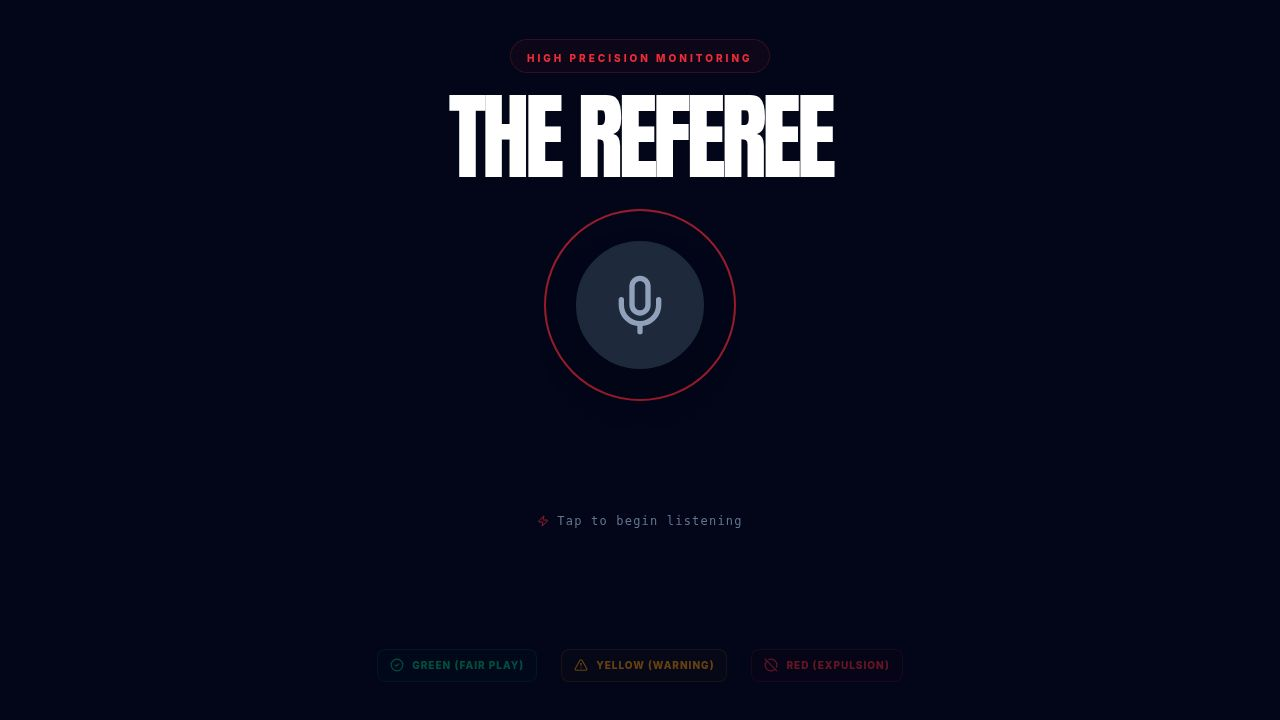
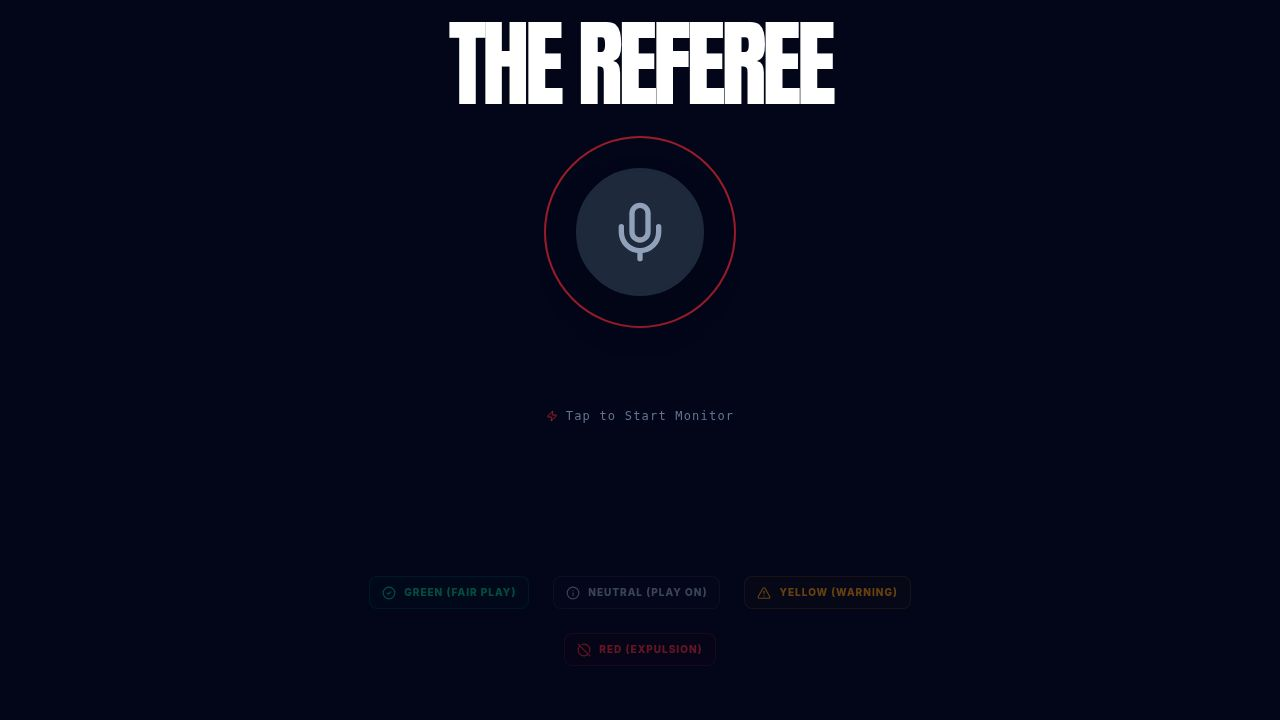
Add a neutral card and expand detection for all forms of bigotry
Introduces a "Neutral Card" for ordinary conversation and expands the Red Card triggers to encompass a wider range of discriminatory language, including homophobia, transphobia, sexism, xenophobia, ableism, antisemitism, and islamophobia. The "I'm Finished" button logic is also corrected to ensure a card is always issued upon submission.

Replit-Commit-Author: Agent
Replit-Commit-Session-Id: 588df0f7-1fe9-41b3-a088-bbca1131cdec
Replit-Commit-Checkpoint-Type: full_checkpoint
Replit-Commit-Event-Id: f1c42167-c97c-4608-b4d7-1ae65f9f6262
Replit-Commit-Screenshot-Url: https://storage.googleapis.com/screenshot-production-us-central1/e18f1a6d-9cce-4801-b7d0-e041ac82768c/588df0f7-1fe9-41b3-a088-bbca1131cdec/yTXIyU8
Replit-Helium-Checkpoint-Created: true

diff --git a/client/src/pages/home.tsx b/client/src/pages/home.tsx
@@ -1,24 +1,28 @@
 import { useState, useEffect, useRef } from "react";
 import { motion, AnimatePresence } from "framer-motion";
-import { Mic, AlertTriangle, RefreshCw, Flag, ShieldAlert, Zap, Waves, CheckCircle2, CircleOff, PowerOff, StopCircle } from "lucide-react";
+import { Mic, AlertTriangle, RefreshCw, Flag, ShieldAlert, Zap, Waves, CheckCircle2, CircleOff, PowerOff, StopCircle, Info } from "lucide-react";
 import { useToast } from "@/hooks/use-toast";
 
 const ANALYSIS_MAP = {
   RED: [
     "racist", "bigot", "hate", "slur", "nazi", "supremacy", 
-    "discrimination", "segregation", "prejudice", "intolerance"
+    "discrimination", "segregation", "prejudice", "intolerance",
+    "homophobic", "transphobic", "sexist", "misogynistic", "misandrist",
+    "xenophobic", "ableist", "antisemitic", "islamophobic"
   ],
   YELLOW: [
     "stupid", "ugly", "idiot", "dumb", "shut up", "jerk", 
-    "trash", "garbage", "loser", "annoying", "hate you"
+    "trash", "garbage", "loser", "annoying", "hate you",
+    "moron", "imbecile", "lame", "creep"
   ],
   GREEN: [
     "kindness", "respect", "love", "equality", "friend", "help", 
-    "good job", "awesome", "peace", "unity", "fair play"
+    "good job", "awesome", "peace", "unity", "fair play",
+    "excellent", "wonderful", "inclusive", "empathy"
   ]
 };
 
-type PenaltyType = "NONE" | "YELLOW" | "RED" | "GREEN";
+type PenaltyType = "NONE" | "YELLOW" | "RED" | "GREEN" | "NEUTRAL";
 
 export default function Home() {
   const [isListening, setIsListening] = useState(false);
@@ -117,20 +121,22 @@ export default function Home() {
   };
 
   const handleFinishSpeaking = () => {
-    if (lastInterimRef.current) {
-      const textToProcess = lastInterimRef.current;
+    const textToProcess = lastInterimRef.current || transcript;
+    if (textToProcess) {
       setTranscript(textToProcess);
       processContent(textToProcess);
       lastInterimRef.current = "";
+    } else {
+      // If absolutely nothing was captured, just stop
+      stopAllRecognition();
     }
-    stopAllRecognition();
   };
 
   const processContent = (text: string) => {
     const lowerText = text.toLowerCase().trim();
     if (!lowerText) return;
 
-    let decision: PenaltyType = "NONE";
+    let decision: PenaltyType = "NEUTRAL";
 
     if (ANALYSIS_MAP.RED.some(word => lowerText.includes(word))) {
       decision = "RED";
@@ -140,9 +146,7 @@ export default function Home() {
       decision = "GREEN";
     }
 
-    if (decision !== "NONE") {
-      triggerPenalty(decision);
-    }
+    triggerPenalty(decision);
   };
 
   const triggerPenalty = (type: PenaltyType) => {
@@ -163,15 +167,19 @@ export default function Home() {
       osc.type = 'sine';
       let baseFreq = 2000;
       let duration = 0.6;
+      
       if (type === "RED") { baseFreq = 2800; duration = 1.2; }
       else if (type === "GREEN") { baseFreq = 1200; duration = 0.4; }
+      else if (type === "NEUTRAL") { baseFreq = 1500; duration = 0.3; }
+
       osc.frequency.setValueAtTime(baseFreq, ctx.currentTime);
-      if (type !== "GREEN") {
+      if (type === "RED" || type === "YELLOW") {
         osc.frequency.linearRampToValueAtTime(baseFreq - 800, ctx.currentTime + 0.1);
         osc.frequency.linearRampToValueAtTime(baseFreq + 800, ctx.currentTime + 0.2);
       } else {
-        osc.frequency.linearRampToValueAtTime(baseFreq + 400, ctx.currentTime + 0.2);
+        osc.frequency.linearRampToValueAtTime(baseFreq + 200, ctx.currentTime + 0.2);
       }
+      
       gain.gain.setValueAtTime(0.6, ctx.currentTime);
       gain.gain.exponentialRampToValueAtTime(0.01, ctx.currentTime + duration);
       osc.start();
@@ -190,6 +198,7 @@ export default function Home() {
     if (penalty === "RED") return "bg-red-950";
     if (penalty === "YELLOW") return "bg-amber-950";
     if (penalty === "GREEN") return "bg-emerald-950";
+    if (penalty === "NEUTRAL") return "bg-slate-900";
     return "bg-slate-950";
   };
 
@@ -208,7 +217,7 @@ export default function Home() {
       <div className="z-10 w-full max-w-xl mx-auto text-center space-y-12">
         <div className="space-y-4">
           <motion.div initial={{ opacity: 0, y: -20 }} animate={{ opacity: 1, y: 0 }} className="font-display text-7xl md:text-8xl tracking-tighter uppercase transition-colors duration-500">
-            {penalty === "RED" ? "EXPELLED" : penalty === "YELLOW" ? "WARNED" : penalty === "GREEN" ? "FAIR PLAY" : "The Referee"}
+            {penalty === "RED" ? "EXPELLED" : penalty === "YELLOW" ? "WARNED" : penalty === "GREEN" ? "FAIR PLAY" : penalty === "NEUTRAL" ? "PLAY ON" : "The Referee"}
           </motion.div>
         </div>
 
@@ -262,12 +271,15 @@ export default function Home() {
               </motion.div>
             ) : (
               <motion.div key={penalty} initial={{ rotateY: 270, scale: 0, y: 100 }} animate={{ rotateY: 0, scale: 1.5, y: 0 }} transition={{ type: "spring", stiffness: 150, damping: 12 }} className="perspective-1000 z-50">
-                 <div className={`w-40 h-60 ${penalty === "RED" ? "bg-[#ff0000]" : penalty === "YELLOW" ? "bg-[#ffcc00]" : "bg-[#10b981]"} rounded-xl shadow-[0_50px_100px_-20px_rgba(0,0,0,1)] border-4 border-white/40 flex flex-col items-center justify-center relative overflow-hidden`}>
+                 <div className={`w-40 h-60 ${penalty === "RED" ? "bg-[#ff0000]" : penalty === "YELLOW" ? "bg-[#ffcc00]" : penalty === "GREEN" ? "bg-[#10b981]" : "bg-[#475569]"} rounded-xl shadow-[0_50px_100px_-20px_rgba(0,0,0,1)] border-4 border-white/40 flex flex-col items-center justify-center relative overflow-hidden`}>
                     <div className="absolute inset-0 bg-gradient-to-br from-white/50 via-transparent to-black/30" />
                     {penalty === "RED" && <CircleOff className="w-20 h-20 mb-4 text-red-950/50" />}
                     {penalty === "YELLOW" && <AlertTriangle className="w-20 h-20 mb-4 text-amber-950/50" />}
                     {penalty === "GREEN" && <CheckCircle2 className="w-20 h-20 mb-4 text-emerald-950/50" />}
-                    <div className="absolute bottom-4 right-4 text-black/20 font-display text-7xl">{penalty === "RED" ? "!!" : penalty === "YELLOW" ? "!" : "✓"}</div>
+                    {penalty === "NEUTRAL" && <Info className="w-20 h-20 mb-4 text-slate-300/50" />}
+                    <div className="absolute bottom-4 right-4 text-black/20 font-display text-7xl">
+                      {penalty === "RED" ? "!!" : penalty === "YELLOW" ? "!" : penalty === "GREEN" ? "✓" : "•"}
+                    </div>
                  </div>
               </motion.div>
             )}
@@ -278,11 +290,14 @@ export default function Home() {
           {showShame && (
             <motion.div initial={{ opacity: 0, y: 50 }} animate={{ opacity: 1, y: 0 }} className="space-y-8">
               <div className="bg-white/5 backdrop-blur-2xl p-10 rounded-[40px] border border-white/10 shadow-2xl">
-                <h2 className={`font-display text-5xl mb-4 uppercase tracking-tighter ${penalty === "RED" ? "text-red-500" : penalty === "YELLOW" ? "text-amber-500" : "text-emerald-500"}`}>
-                  {penalty === "RED" ? "EXPULSION" : penalty === "YELLOW" ? "WARNING" : "FAIR PLAY"}
+                <h2 className={`font-display text-5xl mb-4 uppercase tracking-tighter ${penalty === "RED" ? "text-red-500" : penalty === "YELLOW" ? "text-amber-500" : penalty === "GREEN" ? "text-emerald-500" : "text-slate-400"}`}>
+                  {penalty === "RED" ? "EXPULSION" : penalty === "YELLOW" ? "WARNING" : penalty === "GREEN" ? "FAIR PLAY" : "PLAY ON"}
                 </h2>
                 <p className="text-xl font-medium text-slate-300 max-w-sm mx-auto">
-                  {penalty === "RED" ? "Severe toxicity detected. Expulsion issued." : penalty === "YELLOW" ? "Caution! Offensive language detected." : "Exemplary conduct detected. Keep it up!"}
+                  {penalty === "RED" ? "Severe toxicity detected. Expulsion issued." : 
+                   penalty === "YELLOW" ? "Caution! Offensive language detected." : 
+                   penalty === "GREEN" ? "Exemplary conduct detected. Keep it up!" :
+                   "No violation detected. Carry on with the match."}
                 </p>
               </div>
               <button onClick={reset} className="group flex items-center justify-center gap-4 mx-auto px-12 py-6 bg-primary text-white rounded-full font-black uppercase tracking-widest hover:scale-105 active:scale-95 transition-all shadow-2xl shadow-primary/40">
@@ -296,6 +311,9 @@ export default function Home() {
           <div className="pt-12 flex justify-center gap-6 opacity-40 hover:opacity-100 transition-opacity flex-wrap">
              <button onClick={() => triggerPenalty("GREEN")} className="flex items-center gap-2 text-[10px] font-black uppercase tracking-widest text-emerald-500 border border-emerald-500/20 px-3 py-2 rounded-lg bg-emerald-500/5">
                <CheckCircle2 className="w-3.5 h-3.5" /> Green (Fair Play)
+             </button>
+             <button onClick={() => triggerPenalty("NEUTRAL")} className="flex items-center gap-2 text-[10px] font-black uppercase tracking-widest text-slate-400 border border-slate-500/20 px-3 py-2 rounded-lg bg-slate-500/5">
+               <Info className="w-3.5 h-3.5" /> Neutral (Play On)
              </button>
              <button onClick={() => triggerPenalty("YELLOW")} className="flex items-center gap-2 text-[10px] font-black uppercase tracking-widest text-amber-500 border border-amber-500/20 px-3 py-2 rounded-lg bg-amber-500/5">
                <AlertTriangle className="w-3.5 h-3.5" /> Yellow (Warning)
